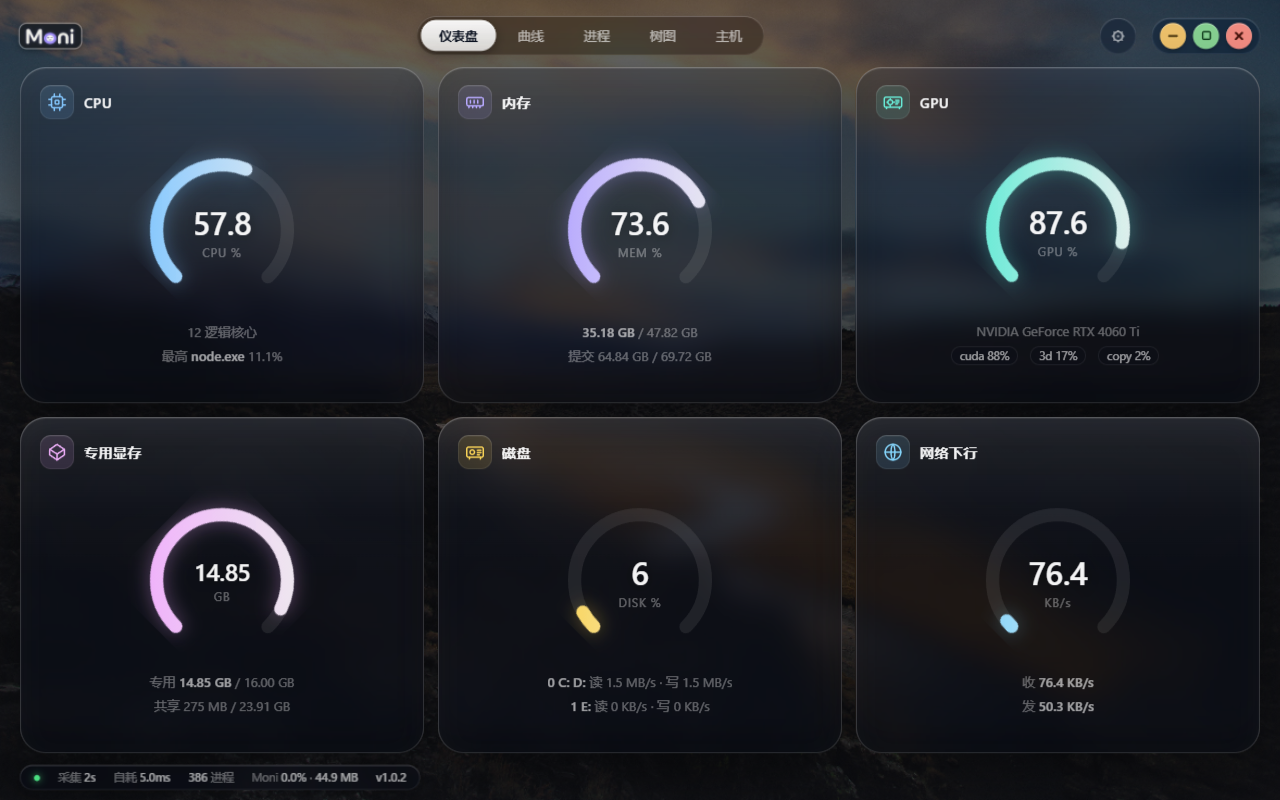
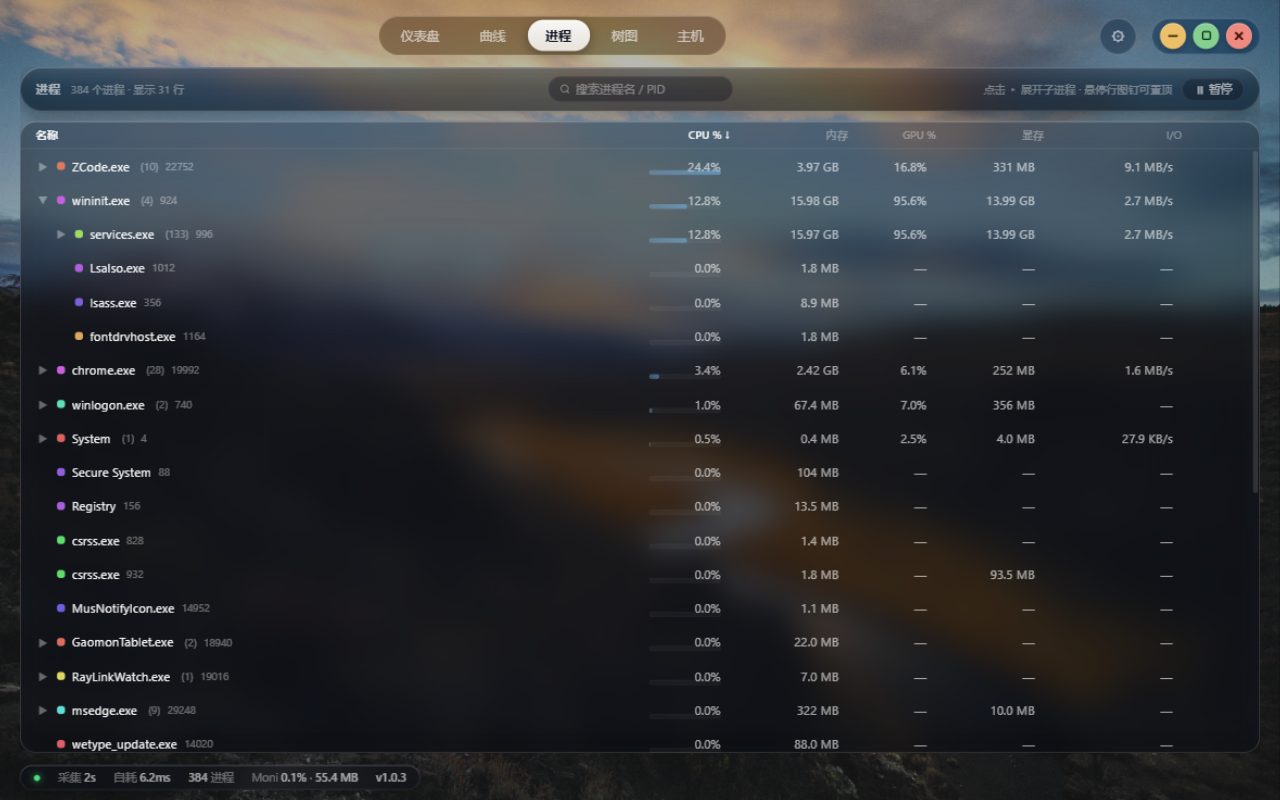
ui: 进程页搜索框居中 + 卡片缝隙透出壁纸 + 重拍 README 进程页截图
- 工具栏改三栏 grid（左标题/计数、中搜索框、右提示/暂停），搜索框始终在药丸正中，聚焦加宽不偏移
- 树页卡片外投影收小为紧凑接触阴影：原 50px/56px 大模糊在 10px 缝隙叠成灰膜，现缝隙直接透出壁纸（深浅主题、glass3d 同步）；浅色用蓝灰色调
- docs/shots/process.png 此前误放仪表盘截图（v1.0.2），替换为当前进程页（含展开的进程树）

diff --git a/frontend/src/styles/glass.css b/frontend/src/styles/glass.css
@@ -408,12 +408,16 @@ body.light .gauge-num b { text-shadow: none; }
 /* ---- 进程树：工具条药丸 / 钉选卡 / 主列表卡 三层 ---- */
 .tree-panel { height: 100%; display: flex; flex-direction: column; gap: 10px; overflow: hidden; }
 .tree-toolbar {
-  display: flex; align-items: center; gap: 10px;
+  /* 三栏 grid：搜索框始终在药丸正中，左（标题/计数/暂停提示）右（提示/暂停键）两端对齐 */
+  display: grid; grid-template-columns: 1fr auto 1fr; align-items: center; gap: 10px;
   padding: 9px 16px; flex: none;
   border-radius: 999px;
 }
+.tt-side { display: flex; align-items: center; gap: 10px; min-width: 0; }
+.tt-side.left { justify-self: start; }
+.tt-side.right { justify-self: end; }
 .tt-title { font-size: 12.5px; font-weight: 600; color: var(--txt-1); }
-.tt-sub { font-size: 11px; color: var(--txt-2); }
+.tt-sub { font-size: 11px; color: var(--txt-2); white-space: nowrap; }
 .tt-warn { font-size: 11px; color: #fbbf24; }
 .tt-hint { font-size: 11px; color: var(--txt-2); }
 .tsearch { position: relative; display: flex; align-items: center; flex: none; }
@@ -441,6 +445,9 @@ body.light .gauge-num b { text-shadow: none; }
   display: flex; flex-direction: column; overflow: hidden;
   border-radius: var(--r-md);
 }
+/* 树页卡片间隙要透出壁纸：深色下也收小外投影（默认 --panel-shadow 50px 大模糊
+   会在 10px 缝隙里叠成灰膜），只留贴边的紧凑接触阴影 */
+.tree-toolbar, .tree-card { --panel-shadow: 0 6px 16px rgba(0, 0, 0, 0.32); }
 /* 钉选卡：更亮一档的玻璃底 + 更亮的高光描边，比主列表"浮"起一层 */
 .tree-card.pinned {
   flex: none;
@@ -448,8 +455,7 @@ body.light .gauge-num b { text-shadow: none; }
   box-shadow:
     inset 0 0 0 1px var(--pin-stroke),
     inset 0 1px 0 var(--glass-hl),
-    0 26px 56px rgba(0, 0, 0, 0.55),
-    0 10px 26px rgba(0, 0, 0, 0.4);
+    0 10px 22px rgba(0, 0, 0, 0.36);
 }
 :root {
   --pin-glass-bg: linear-gradient(180deg, rgba(18, 24, 38, 0.62), rgba(8, 12, 22, 0.45) 42%, rgba(8, 12, 22, 0.40));
@@ -460,6 +466,7 @@ body.light {
   --pin-stroke: rgba(255, 255, 255, 0.95);
 }
 /* 浅色下卡片间隙由投影叠加变灰：收小列表卡投影，让缝隙接近外部背景 */
+body.light .tree-toolbar { --panel-shadow: 0 6px 16px rgba(31, 45, 80, 0.10); }
 body.light .tree-card { --panel-shadow: 0 10px 24px rgba(31, 45, 80, 0.09); }
 body.light .tree-card.pinned {
   box-shadow:
@@ -542,8 +549,7 @@ body.glass3d .tree-card.pinned {
     inset 0 10px 24px rgba(255, 255, 255, 0.04),
     inset 0 -1px 1px rgba(0, 0, 0, 0.30),
     inset 0 -16px 28px rgba(0, 0, 0, 0.24),
-    0 26px 56px rgba(0, 0, 0, 0.55),
-    0 10px 26px rgba(0, 0, 0, 0.4);
+    0 10px 22px rgba(0, 0, 0, 0.36);
 }
 /* 浅色主题：白色玻璃 + 冰蓝折射描边（参考玻璃图标质感） */
 body.light.glass3d .glass {

diff --git a/frontend/src/views/ProcessTree.tsx b/frontend/src/views/ProcessTree.tsx
@@ -219,10 +219,11 @@ export function ProcessTree({ processes, pins, onPins }: {
   return (
     <div className="view tree-panel">
       <div className="tree-toolbar glass">
-        <span className="tt-title">进程</span>
-        <span className="tt-sub">{dataSource.length} 个进程 · {q ? `匹配 ${rows.length}` : `显示 ${rows.length} 行`}</span>
-        {paused && <span className="tt-warn">⏸ 已暂停 · 数据已冻结</span>}
-        <span className="spacer" />
+        <div className="tt-side left">
+          <span className="tt-title">进程</span>
+          <span className="tt-sub">{dataSource.length} 个进程 · {q ? `匹配 ${rows.length}` : `显示 ${rows.length} 行`}</span>
+          {paused && <span className="tt-warn">⏸ 已暂停 · 数据已冻结</span>}
+        </div>
         <div className="tsearch">
           <svg className="tsearch-ico" width={12} height={12} viewBox="0 0 24 24" fill="none"
             stroke="currentColor" strokeWidth={2.2} strokeLinecap="round">
@@ -233,10 +234,12 @@ export function ProcessTree({ processes, pins, onPins }: {
             spellCheck={false} />
           {query && <button className="tclear" title="清除" onClick={() => setQuery('')}>✕</button>}
         </div>
-        <span className="tt-hint">点击 ▸ 展开子进程 · 悬停行图钉可置顶</span>
-        <button className={'chip' + (paused ? ' on' : '')} onClick={togglePause} title="冻结当前列表，方便查看某个进程">
-          {paused ? '▶ 继续' : '⏸ 暂停'}
-        </button>
+        <div className="tt-side right">
+          <span className="tt-hint">点击 ▸ 展开子进程 · 悬停行图钉可置顶</span>
+          <button className={'chip' + (paused ? ' on' : '')} onClick={togglePause} title="冻结当前列表，方便查看某个进程">
+            {paused ? '▶ 继续' : '⏸ 暂停'}
+          </button>
+        </div>
       </div>
 
       {pins.length > 0 && (
